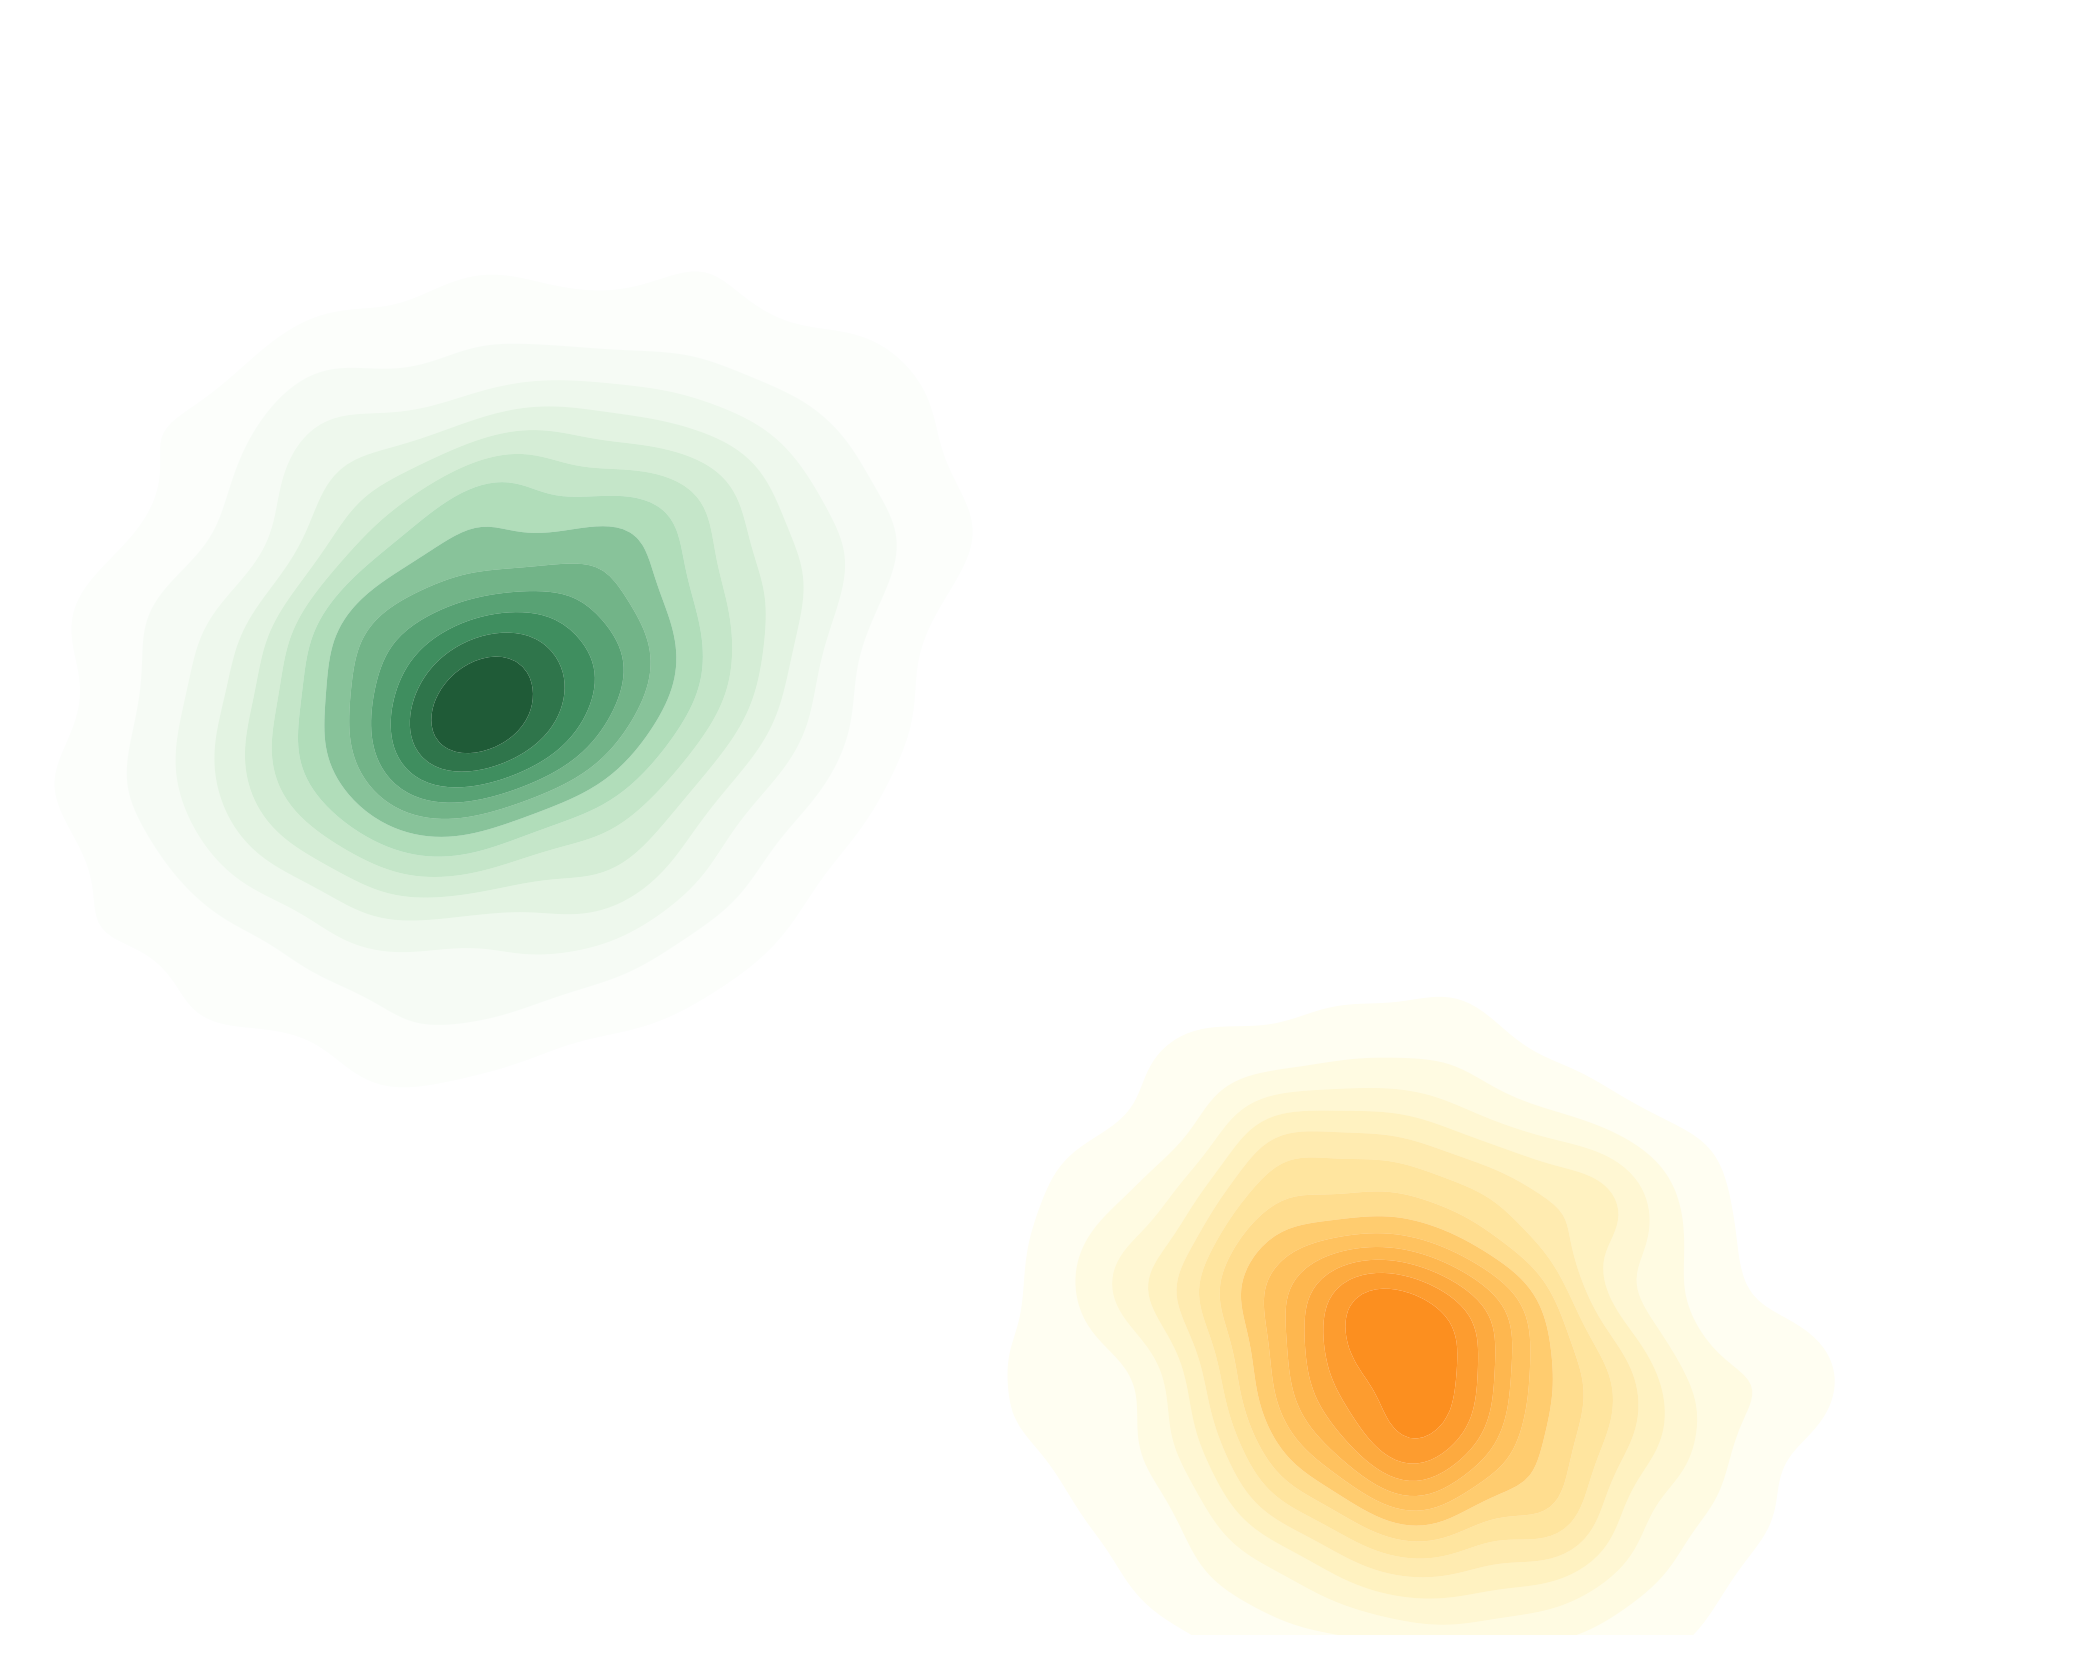
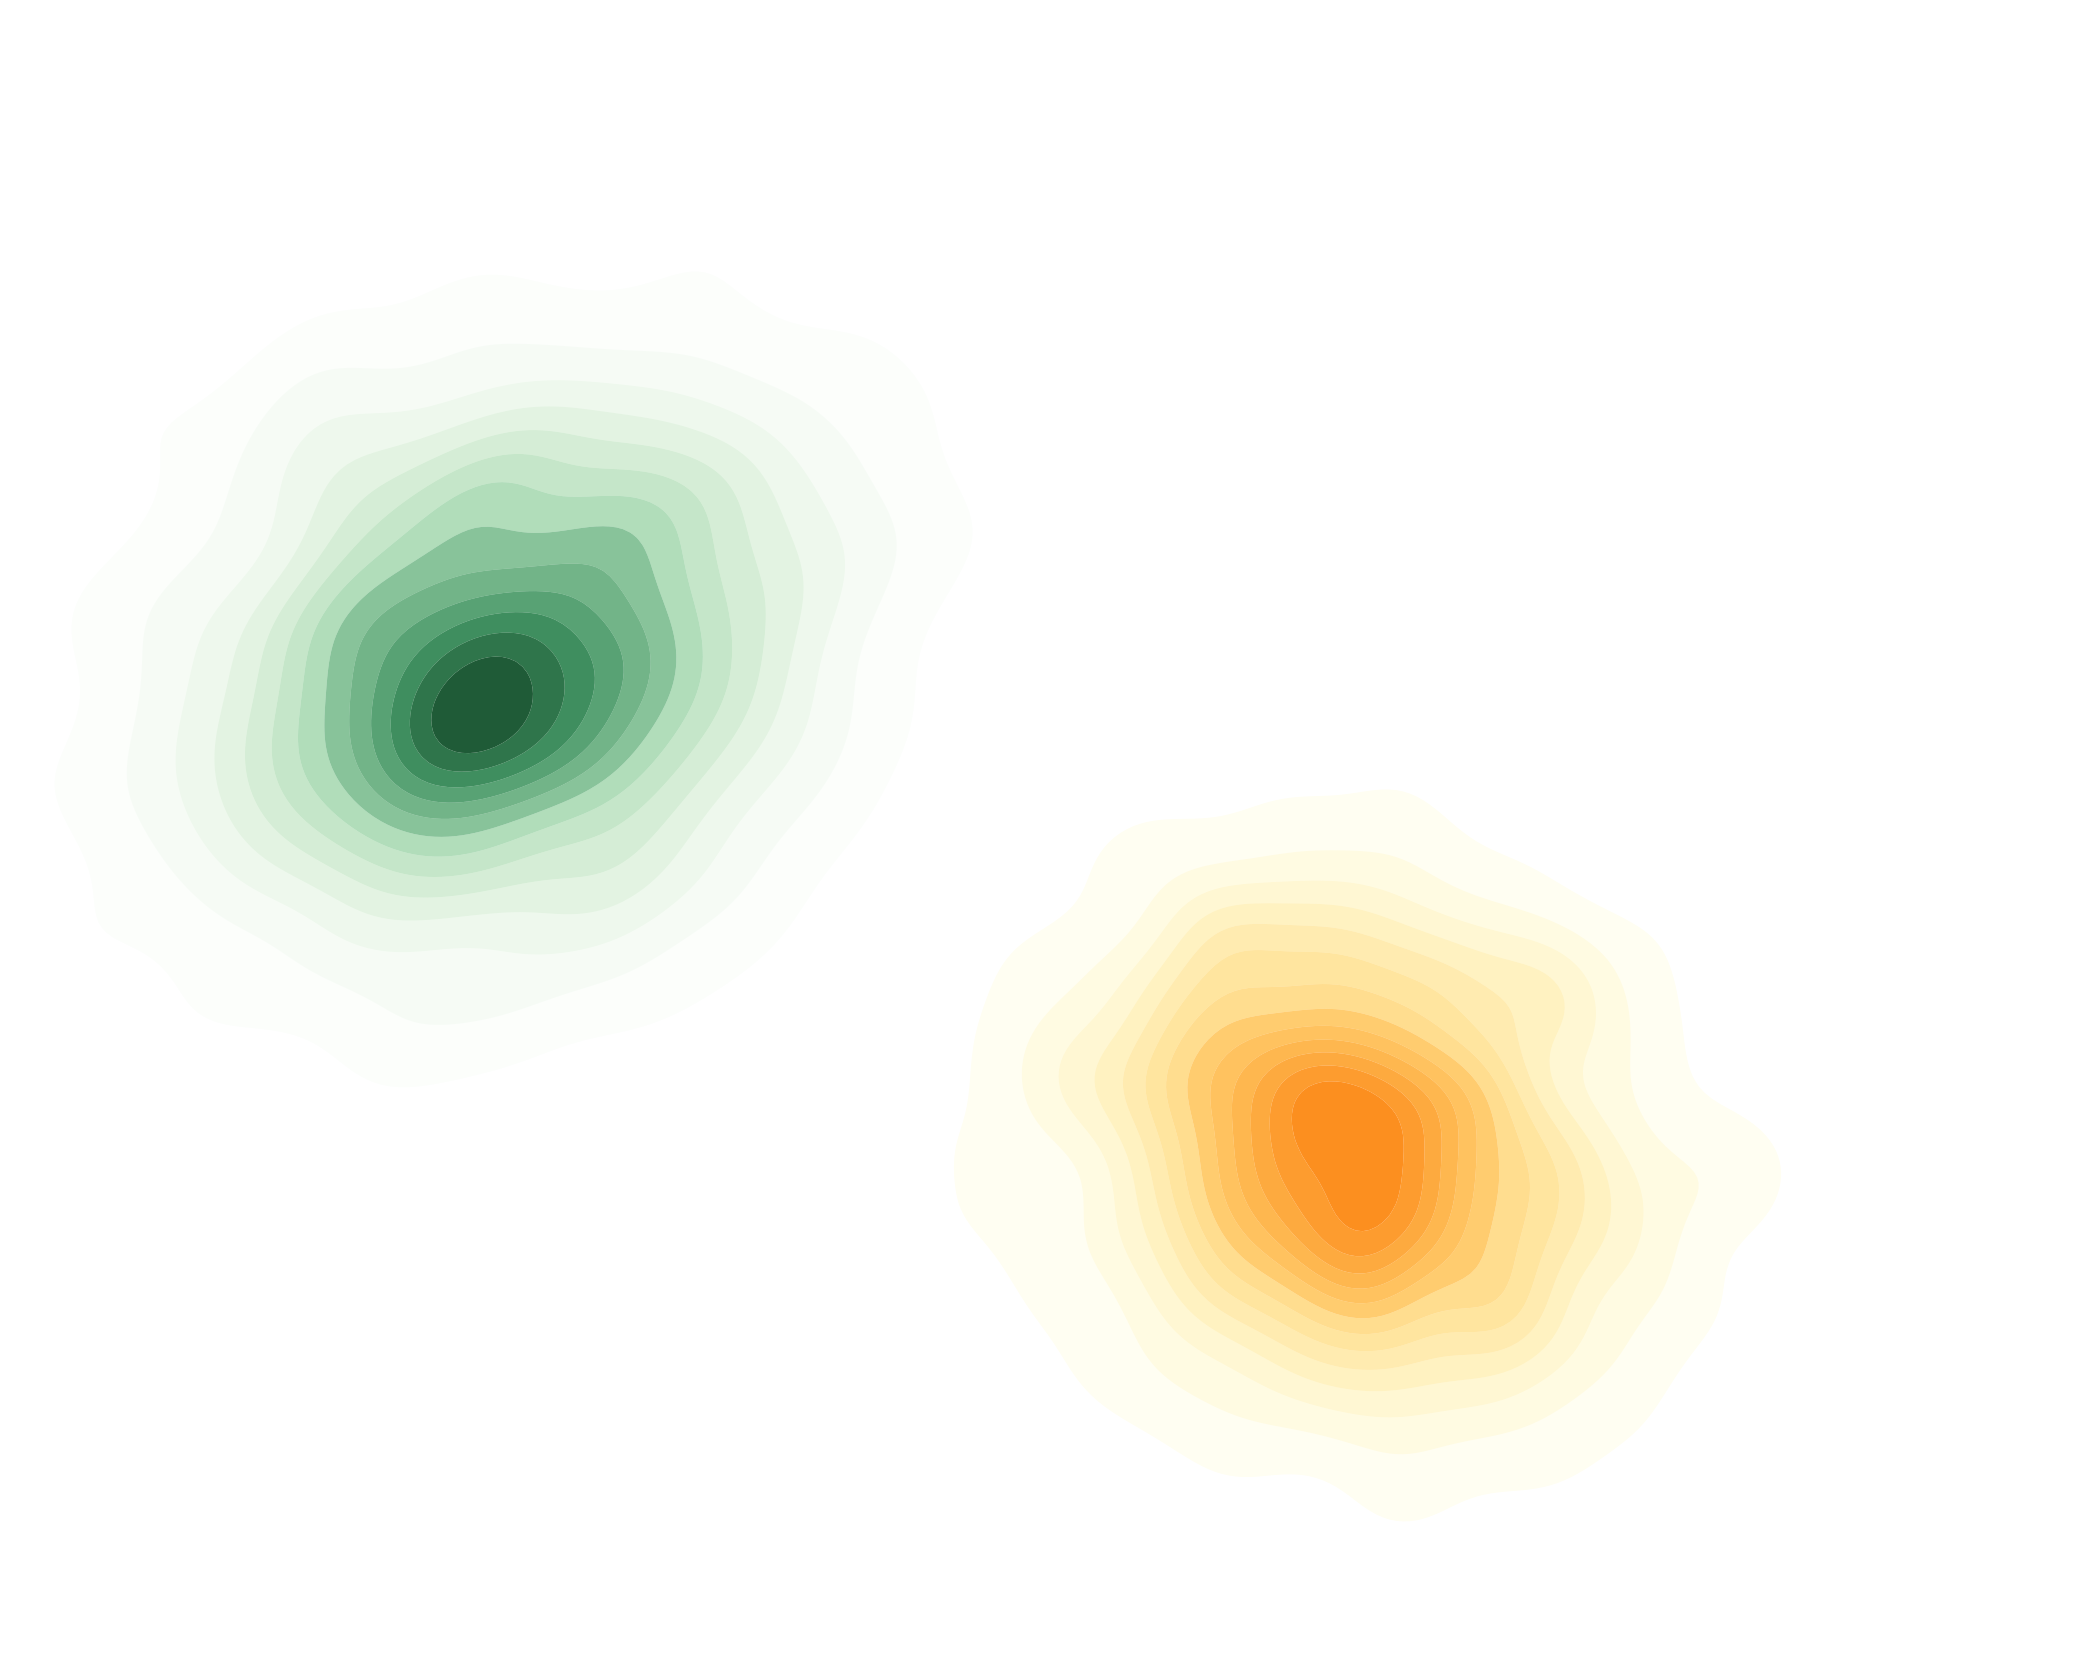
Update simulation parameters and config settings
Adjusted mean values in the kernel density simulation, reduced max_new_tokens in PCA_config.yaml, and refined calibration parameter steps in calibration_config.yaml for finer control. Updated gradient_kde_green_yellow.png to reflect these changes.

Changed region(s): [[0.4643, 0.4952, 0.8357, 0.9905]]

diff --git a/Kernel Density Simulation Visualization.py b/Kernel Density Simulation Visualization.py
@@ -124,7 +124,7 @@ Xg = rng2.multivariate_normal(
 ).T
 
 Xy = rng2.multivariate_normal(
-    mean=[2.6, -1.4],
+    mean=[2.4, -0.8],
     cov=[[0.32, -0.04],
          [-0.04, 0.16]],
     size=1500
